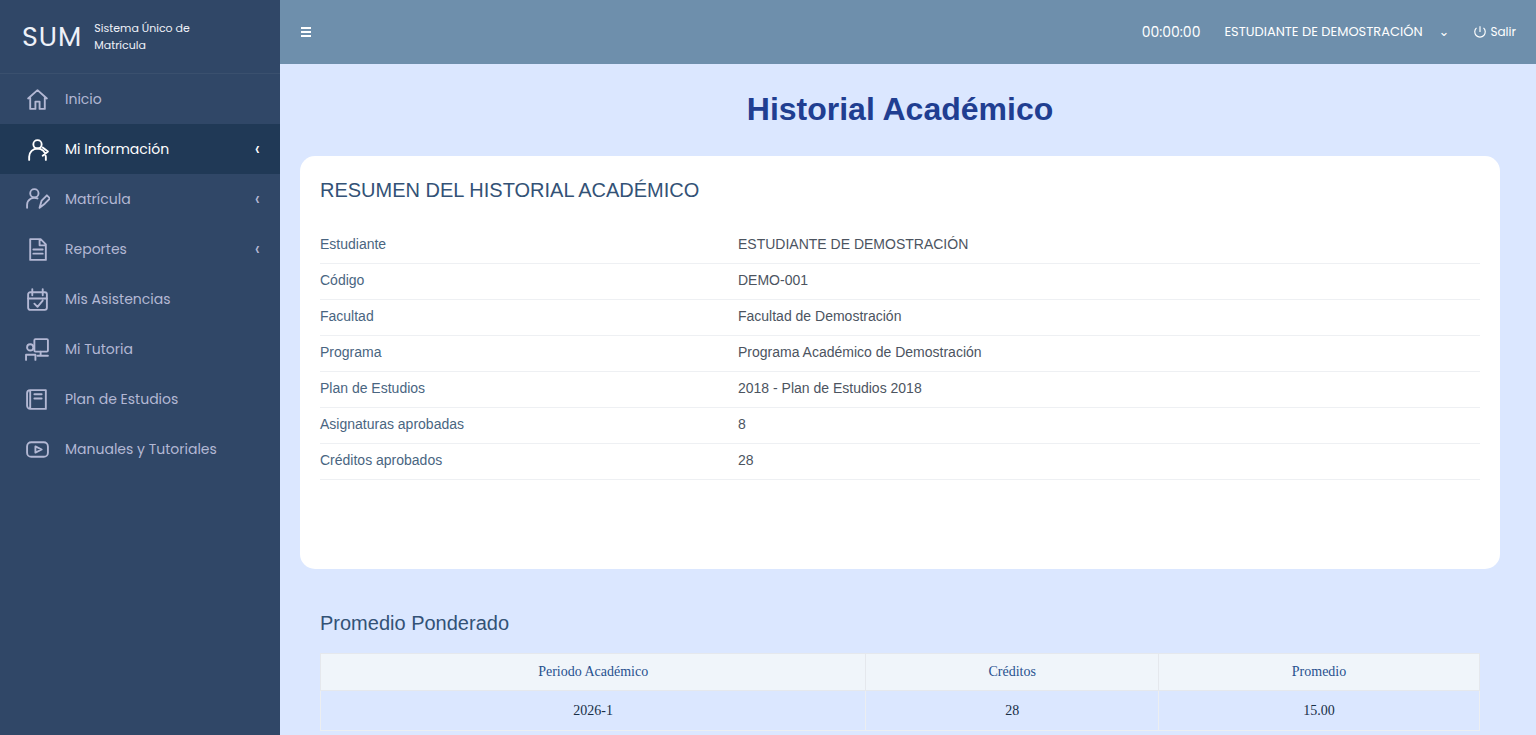
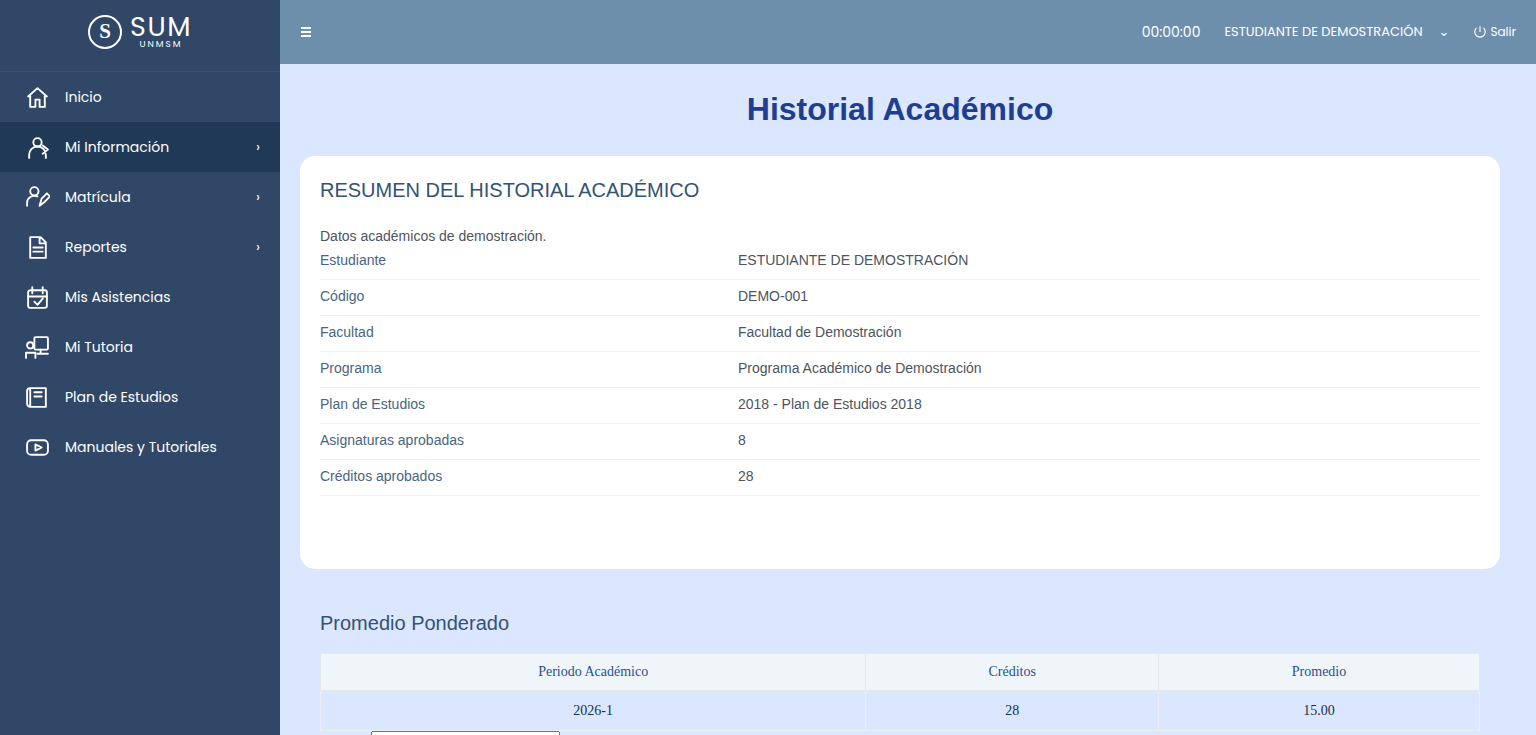
Refresh local SUM screen verification evidence

diff --git a/evidence/local/programacion-asignaturas/verification.md b/evidence/local/programacion-asignaturas/verification.md
@@ -7,3 +7,10 @@ Main origin: (280, 70); dimensions: 1240 × 7364.625 px.
 The shared sidebar width (280 px), header height (64 px), route title, and direct route rendering were checked.
 
 No sanitized reference screenshot is available. Structural coverage does not establish visual equivalence.
+
+## Re-verification 2026-10-08
+
+- REA controlled replay `ev_24144edb2ccf4a7956fc60a2d95f6d7bfbd9341ecd7642d4da5104aaaa470560` opened this route through the local Matrícula menu. It observed the page title, Descargar control, and seven labeled table columns at 1536 × 735 CSS px, with no page errors.
+- The Playwright suite passed the direct-route row/action checks and local schedule-dialog checks before reaching the newly added menu-flow assertion. The second menu link was independently confirmed by REA; the suite stopped earlier on the Information assertion race.
+- The historical notes also describe a leading indicator column, whose rendering and meaning are not captured in retained evidence. It remains unverified and is not synthesized as a value.
+- No sanitized SUM table screenshot exists for visual comparison. Course rows, CSV download, and the row-to-dialog behavior use local demo data.

diff --git a/evidence/local/formulario-datos/verification.md b/evidence/local/formulario-datos/verification.md
@@ -8,4 +8,9 @@ The shared sidebar width (280 px), header height (64 px), route title, and direc
 
 No sanitized reference screenshot is available. Structural coverage does not establish visual equivalence.
 
-Local fixture controls: 8 forms, 46 textboxes, 69 comboboxes. Detailed field labels and types are approximations, not verified source labels.
+## Playwright local — 2026-10-08
+
+- **Resultado:** cumple localmente para ruta, ocho secciones, mapa sanitizado observado y ancla Salud. Captura: `candidate.png` (1536 × 735).
+- **Comprobaciones:** 8 formularios; 64 controles según referencia (17 texto, 1 fecha, 1 correo, 42 select, 3 textarea); el campo étnico es el único control inicialmente habilitado en SUM. El prototipo lo muestra habilitado, pero `readOnly` como decisión local, pues no se probó la edición en SUM. Valores sintéticos.
+- **Visual:** bloqueado; no hay captura SUM sanitaria comparable.
+- **Privacidad:** captura generada con fixture local de demostración; no contiene datos reales.

diff --git a/evidence/local/perfil/verification.md b/evidence/local/perfil/verification.md
@@ -7,3 +7,10 @@ Main origin: (280, 70); dimensions: 1240 × 931 px.
 The shared sidebar width (280 px), header height (64 px), route title, and direct route rendering were checked.
 
 No sanitized reference screenshot is available. Structural coverage does not establish visual equivalence.
+
+## Playwright local — 2026-10-08
+
+- **Resultado:** ruta, once rótulos personales, transición a Académica y nueve rótulos académicos comprobados. Fixture sintético `DEMO-001`; `candidate.png` muestra Personal y `academic-candidate.png` Académica (1536 × 735).
+- **Comprobaciones:** se mantienen visibles las tres pestañas; Académica funciona en el prototipo. Contraseña sigue deshabilitada localmente porque está fuera de alcance y su panel no fue inspeccionado.
+- **Visual:** pendiente; solo el sidebar tiene referencia sanitaria comparable. Esta vista es réplica local.
+- **Privacidad:** el fixture está rotulado como demostración y no contiene datos de una persona real.

diff --git a/evidence/local/ficha-socioeconomica/verification.md b/evidence/local/ficha-socioeconomica/verification.md
@@ -8,4 +8,9 @@ The shared sidebar width (280 px), header height (64 px), route title, and direc
 
 No sanitized reference screenshot is available. Structural coverage does not establish visual equivalence.
 
-Local fixture controls: 12 forms, 74 textboxes, 108 comboboxes. Detailed field labels and types are approximations, not verified source labels.
+## Playwright local — 2026-10-08
+
+- **Resultado:** cumple localmente para ruta, 13 secciones, controles read-only y encabezados de tabla familiar. Captura: `candidate.png` (1536 × 735).
+- **Comprobaciones:** la réplica usa datos sintéticos; se verificaron 13 formularios, cero controles habilitados y diez encabezados. La tabla local presenta una fila vacía para representar el estado visible sin retener contenido.
+- **Visual:** bloqueado; no hay captura SUM sanitaria comparable.
+- **Privacidad:** captura generada con fixture de demostración; no contiene información socioeconómica real.

diff --git a/evidence/local/matricula-informacion/verification.md b/evidence/local/matricula-informacion/verification.md
@@ -7,3 +7,9 @@ Main origin: (280, 70); dimensions: 1240 × 665 px.
 The shared sidebar width (280 px), header height (64 px), route title, and direct route rendering were checked.
 
 No sanitized reference screenshot is available. Structural coverage does not establish visual equivalence.
+
+## Re-verification 2026-10-08
+
+- REA controlled replay `ev_8408d7501e82732e71a7d462facbaffb14321b211d5bc1eb19d28809b580130b` opened this route through the expanded local Matrícula menu. It observed the article heading and five sections at 1536 × 735 CSS px, with no page errors.
+- The Playwright suite passed this screen's direct-route structure and position checks. The added menu-flow assertion later stopped immediately after the URL changed, before the article mounted; see `../matricula-menu/verification.md`.
+- No sanitized SUM page reference exists for visual comparison. Paragraph copy remains a local paraphrase.

diff --git a/evidence/local/historial/verification.md b/evidence/local/historial/verification.md
@@ -7,3 +7,10 @@ Main origin: (280, 70); dimensions: 1240 × 840 px.
 The shared sidebar width (280 px), header height (64 px), route title, and direct route rendering were checked.
 
 No sanitized reference screenshot is available. Structural coverage does not establish visual equivalence.
+
+## Playwright local — 2026-10-08
+
+- **Resultado:** cumple para ruta, jerarquía de resumen, búsqueda visible y ocho encabezados de tabla. Captura: `candidate.png` (1536 × 735), con fixture sintético.
+- **Comprobaciones:** aparecen «RESUMEN DEL HISTORIAL ACADÉMICO», «Promedio Ponderado», búsqueda y columnas documentadas. No se usó la búsqueda; las filas son fixture local y no validan registros SUM.
+- **Visual:** bloqueado; no hay captura SUM sanitaria comparable.
+- **Privacidad:** la imagen usa valores de demostración; no se copiaron calificaciones reales.
